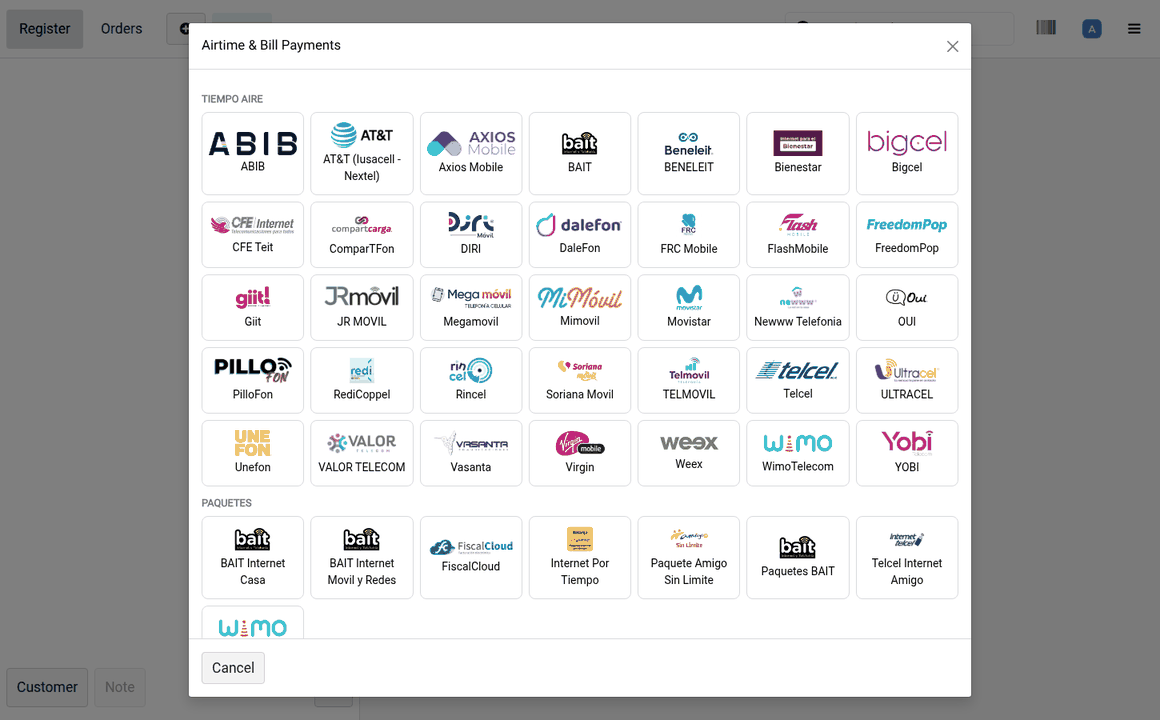
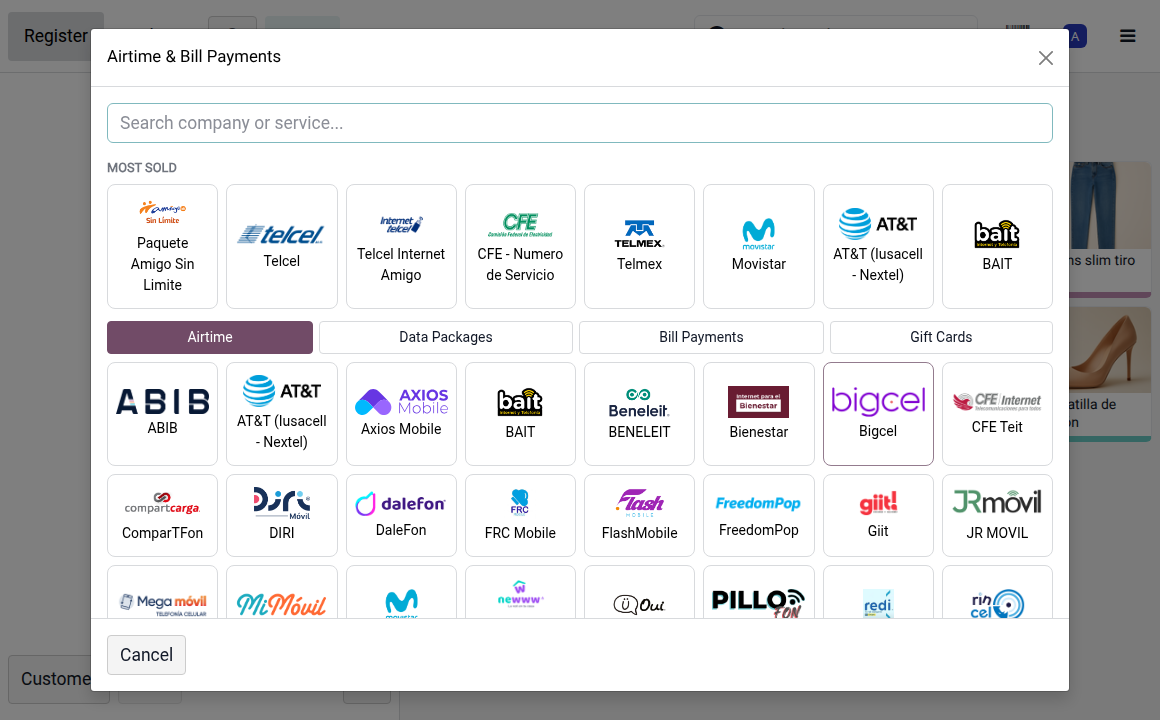
xb_pos_taecel 19.0.1.1.7: screenshots and cashier manual match the new recharge picker
- Store page: new carriers screenshot (most sold, tabs, search box) and a
  line on the search box, the tabs and small POS terminals.
- Cashier manual: steps 2 and bill payments describe the search box and the
  tabs; their screenshots retaken (es and en).
- The manual is refreshed on upgrade. Its checksum was taken of the body we
  generated, which the html sanitizer always rewrites, so every manual looked
  edited by hand and none was ever refreshed. It is now taken of the stored
  body, and a body last written by the superuser counts as untouched.

diff --git a/xb_pos_taecel/static/description/index.html b/xb_pos_taecel/static/description/index.html
@@ -39,8 +39,11 @@
 
     <div style="margin:0 0 32px;">
       <p style="font-size:15px;color:#666;margin:0 0 10px;">
-        That button opens the whole catalog, grouped as TAECEL publishes it
-        &mdash; airtime, data packages, bill payments:
+        That button opens the whole catalog. What this shop sells most comes
+        first, then one tab per group &mdash; airtime, data packages, bill
+        payments, gift cards &mdash; and a search box finds any company by
+        name, accents or not. It fits small POS terminals too, and on a touch
+        screen the keyboard only shows up when the cashier taps the search box:
       </p>
       <img src="screenshots/carriers.png"
            style="max-width:100%;border:1px solid #ecdede;border-radius:8px;"/>
@@ -84,6 +87,9 @@
           Bait, Virgin, Weex and the rest, plus utilities such as CFE, Telmex,
           Sky, Dish and Megacable. The catalog is synchronised from TAECEL on
           demand and on a schedule, so new products appear without an update.</li>
+      <li><b>Found in seconds</b> &mdash; the most sold carriers on top, tabs
+          per group and a search box, in a window that fits handheld
+          terminals such as the Newland N750.</li>
       <li><b>Your own service fee</b> per carrier, added to the line and printed
           on the receipt as TAECEL requires.</li>
       <li><b>Electronic PINs</b> handed to the customer on the ticket.</li>

diff --git a/xb_pos_taecel/manual.py b/xb_pos_taecel/manual.py
@@ -20,7 +20,8 @@ from odoo.tools.translate import _
 _logger = logging.getLogger(__name__)
 
 ARTICLE_XMLID = 'xb_pos_taecel.article_cashier_manual'
-CHECKSUM_PARAM = 'xb_pos_taecel.manual_checksum'
+CHECKSUM_PARAM = 'xb_pos_taecel.manual_checksum'        # body as stored
+SOURCE_PARAM = 'xb_pos_taecel.manual_source_checksum'    # body as generated
 IMG_BASE = '/xb_pos_taecel/static/src/img/manual'
 
 
@@ -90,9 +91,11 @@ def build_body(env):
 
     add('<h2>%s</h2>' % _("2 - Pick the carrier or the service"))
     add(_p(_(
-        "The full list opens: mobile carriers at the top, services (power, "
-        "cable, internet, pay TV) further down. It is the catalog your provider "
-        "publishes, so if it shows here, it can be sold.")))
+        "At the top are the carriers this shop sells most. Below them, one tab "
+        "per group: airtime, data packages, bill payments and gift cards. To go "
+        "straight to one, type part of its name in the search box -- \"telcel\", "
+        "\"cfe\" --, accents or not. It is the catalog your provider publishes, "
+        "so if it shows here, it can be sold.")))
     add(_img(folder, '02_companias', _("List of carriers and services")))
 
     add('<h2>%s</h2>' % _("3 - Tap the amount the customer asked for"))
@@ -135,10 +138,10 @@ def build_body(env):
 
     add('<h2>%s</h2>' % _("Bill payments: power, water, cable..."))
     add(_p(_(
-        "Taking a bill is the same flow with one change. In the list, next to "
-        "the mobile carriers, are the services: power, water, gas, cable, "
-        "internet, pay TV and several government offices. Pick the one on the "
-        "customer's bill.")))
+        "Taking a bill is the same flow with one change. The services -- power, "
+        "water, gas, cable, internet, pay TV and several government offices -- "
+        "are under the bill payments tab. Pick the one on the customer's bill, "
+        "or type its name in the search box.")))
     add(_img(folder, '06_servicios', _("List of services")))
     add(_p(_(
         "The difference: a service has %(no_fixed)s. Instead you type two "
@@ -313,12 +316,19 @@ def install_manual(env):
     if article:
         # Refresh only what the customer has not touched: an edited manual is
         # theirs, and stomping it on every upgrade would be worse than stale.
+        # Two checksums. CHECKSUM_PARAM is of the body AS STORED: the html
+        # sanitizer rewrites what we hand it, so comparing against the body we
+        # generated never matched and every manual looked edited. A body last
+        # written by the superuser (this function) was not edited by a person
+        # either. SOURCE_PARAM is of the body as generated: when it has not
+        # changed there is nothing new to write.
         previous = params.get_param(CHECKSUM_PARAM)
         current = hashlib.sha256((article.body or '').encode()).hexdigest()
-        if previous and previous != current:
+        by_us = article.write_uid.id == SUPERUSER_ID
+        if previous and previous != current and not by_us:
             _logger.info('xb_pos_taecel: cashier manual edited locally, left as is.')
             return article
-        if previous == digest:
+        if params.get_param(SOURCE_PARAM) == digest:
             return article
         article.write({'body': body})
     else:
@@ -349,6 +359,7 @@ def install_manual(env):
     # behind an ORM write is what makes an article revert in the browser.
     if 'html_field_history' in article._fields:
         article.write({'html_field_history': False})
-    params.set_param(CHECKSUM_PARAM, digest)
+    params.set_param(CHECKSUM_PARAM, hashlib.sha256((article.body or '').encode()).hexdigest())
+    params.set_param(SOURCE_PARAM, digest)
     _logger.info('xb_pos_taecel: cashier manual ready (article %s, %s).', article.id, lang)
     return article

diff --git a/xb_pos_taecel/migrations/1.1.7/post-migrate.py b/xb_pos_taecel/migrations/1.1.7/post-migrate.py
@@ -1,0 +1,15 @@
+# -*- coding: utf-8 -*-
+from odoo import api, SUPERUSER_ID
+
+
+def migrate(cr, version):
+    """Refresh the cashier manual: the carrier picker gained a search box, tabs
+    and a most-sold row, and the manual still described one long list.
+
+    install_manual() leaves a manual a person has edited alone. Up to 1.1.6 its
+    checksum never matched what was stored, so every manual looked edited and
+    none would have been refreshed; it now also trusts the last writer.
+    """
+    from odoo.addons.xb_pos_taecel import manual
+    env = api.Environment(cr, SUPERUSER_ID, {})
+    manual.install_manual(env)

diff --git a/xb_pos_taecel/__manifest__.py b/xb_pos_taecel/__manifest__.py
@@ -35,7 +35,7 @@ transactions. A distributor account on its own does not include API access.
 Runs on Odoo 17.0, 18.0, 19.0 and 20.0.
 """,
     'category': 'Sales/Point of Sale',
-    'version': '19.0.1.1.6',
+    'version': '19.0.1.1.7',
     'author': 'XUBAX',
     'website': 'https://xubax.com',
     'license': 'OPL-1',
